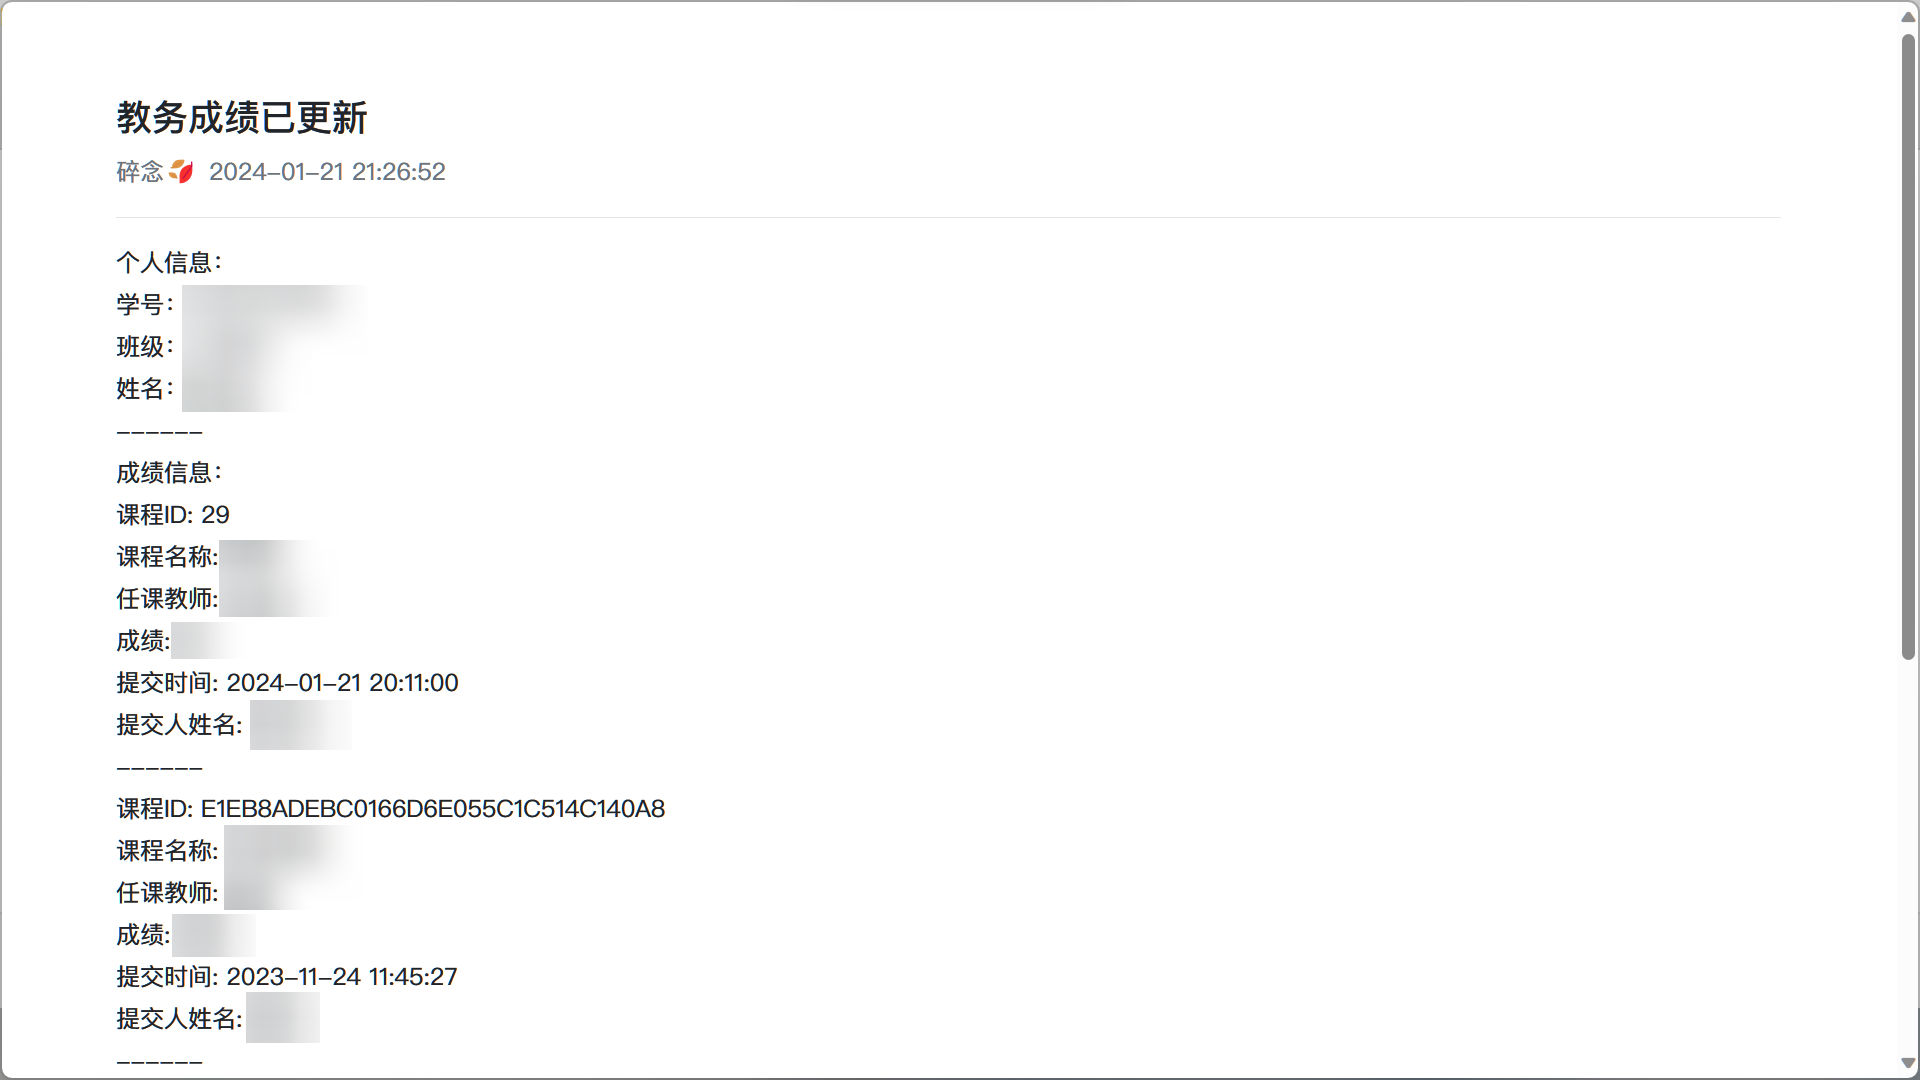
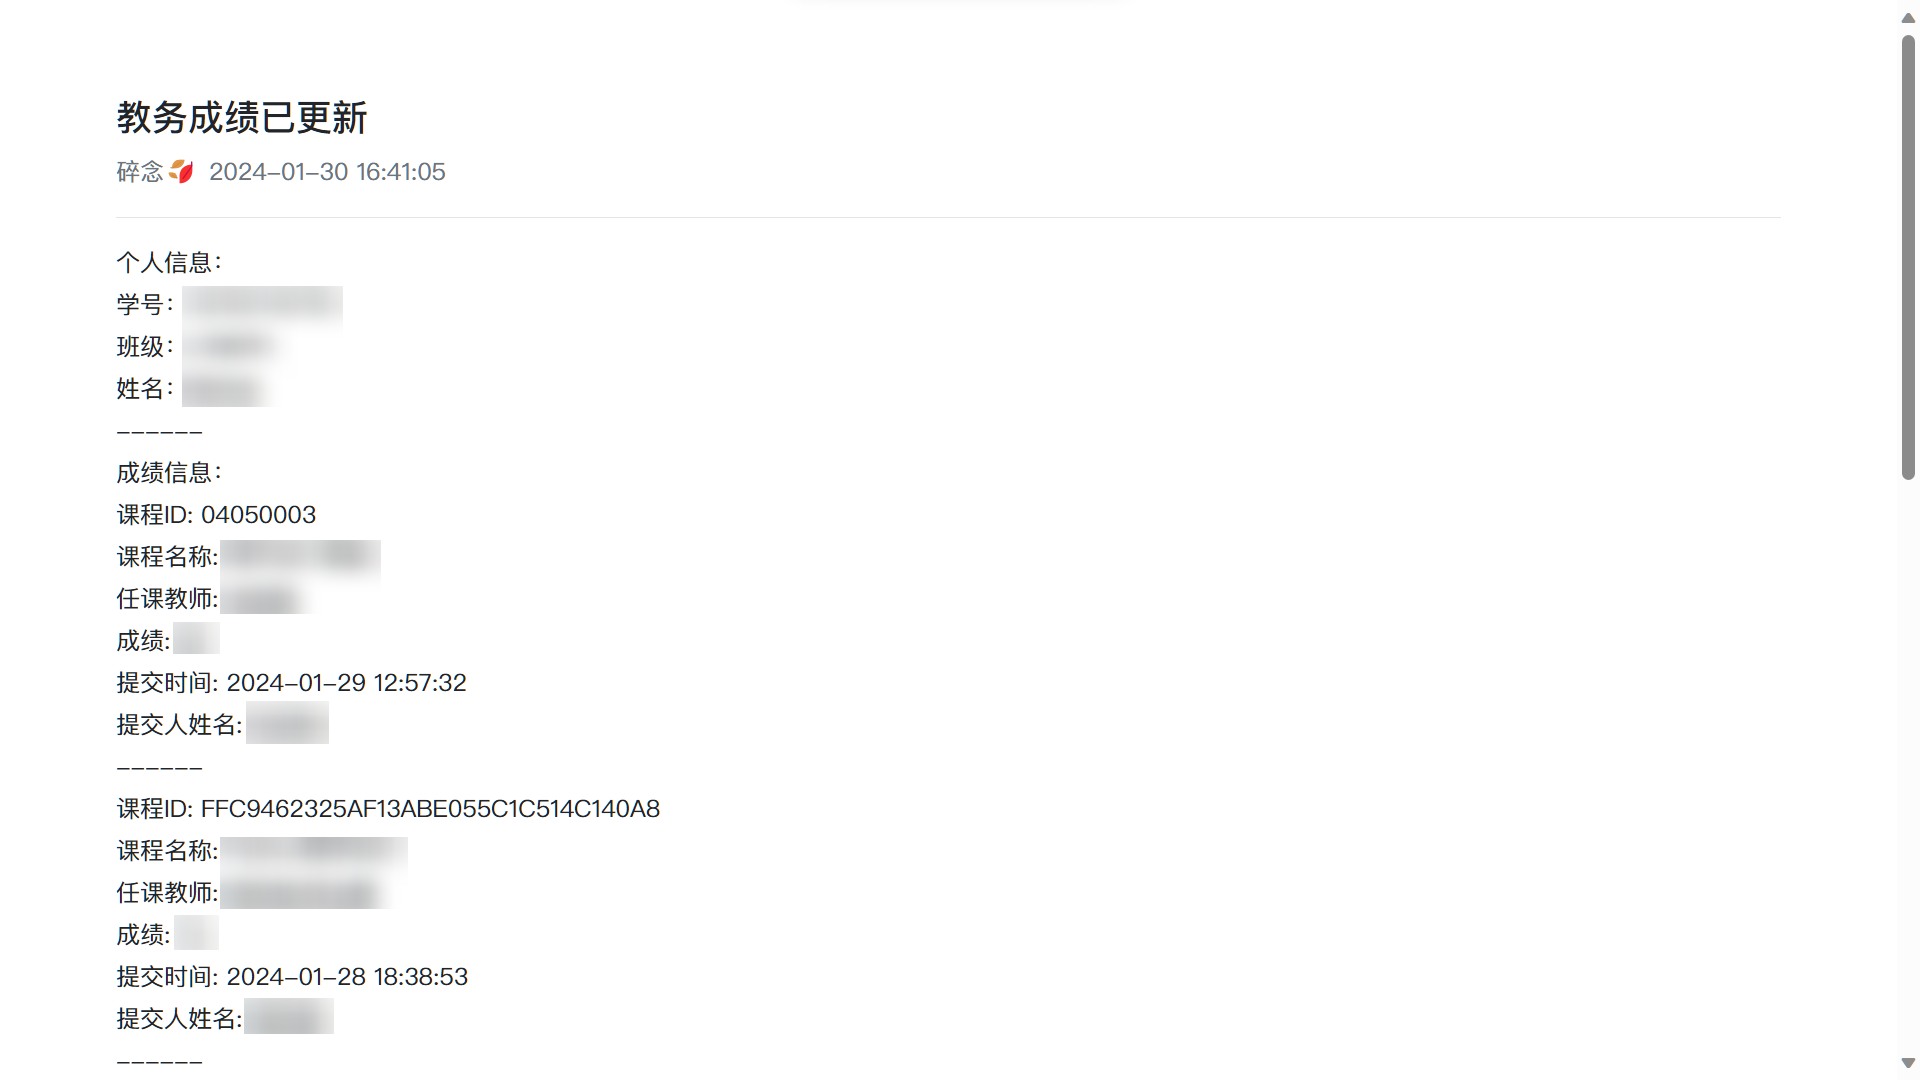
Added a time ordering and explained what the Apache-2.0 license means.

diff --git a/README.md b/README.md
@@ -1,6 +1,6 @@
 # 正方教务管理系统成绩推送
 
-<img src="https://cdn.jsdelivr.net/gh/NianBroken/ZFCheckScores/img/19.png" style="zoom:60%;" />
+<img src="https://cdn.jsdelivr.net/gh/NianBroken/ZFCheckScores/img/21.png" style="zoom:60%;" />
 
 ## 简介
 
@@ -77,7 +77,7 @@ _若是第一次运行程序，上述步骤会执行两遍_
 
 ## 许可证
 
-该项目采用Apache-2.0许可证。简单来说，你可以自由使用、修改和分享该项目的代码，但前提是在其衍生作品中必须保留原始许可证和版权信息，并且必须以相同的许可证发布所有修改过的代码。
+该项目采用 Apache-2.0 许可证。简而言之，你可以自由使用、修改和分享该项目的代码，但前提是在其衍生作品中必须保留原始许可证和版权信息，并且必须以相同的许可证发布所有修改过的代码。
 
 ## 特别感谢
 
